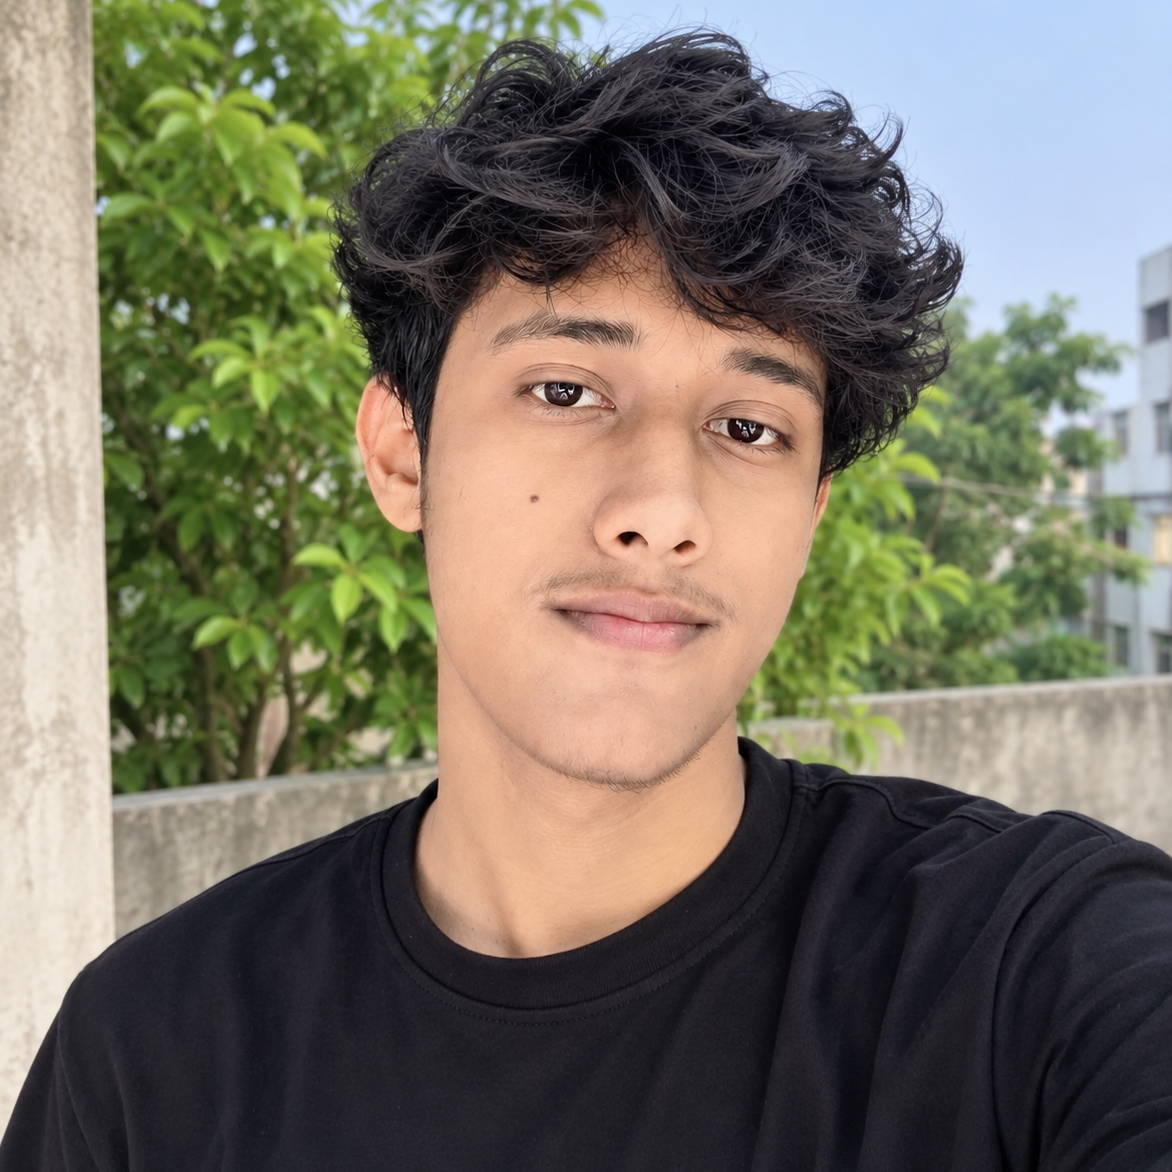
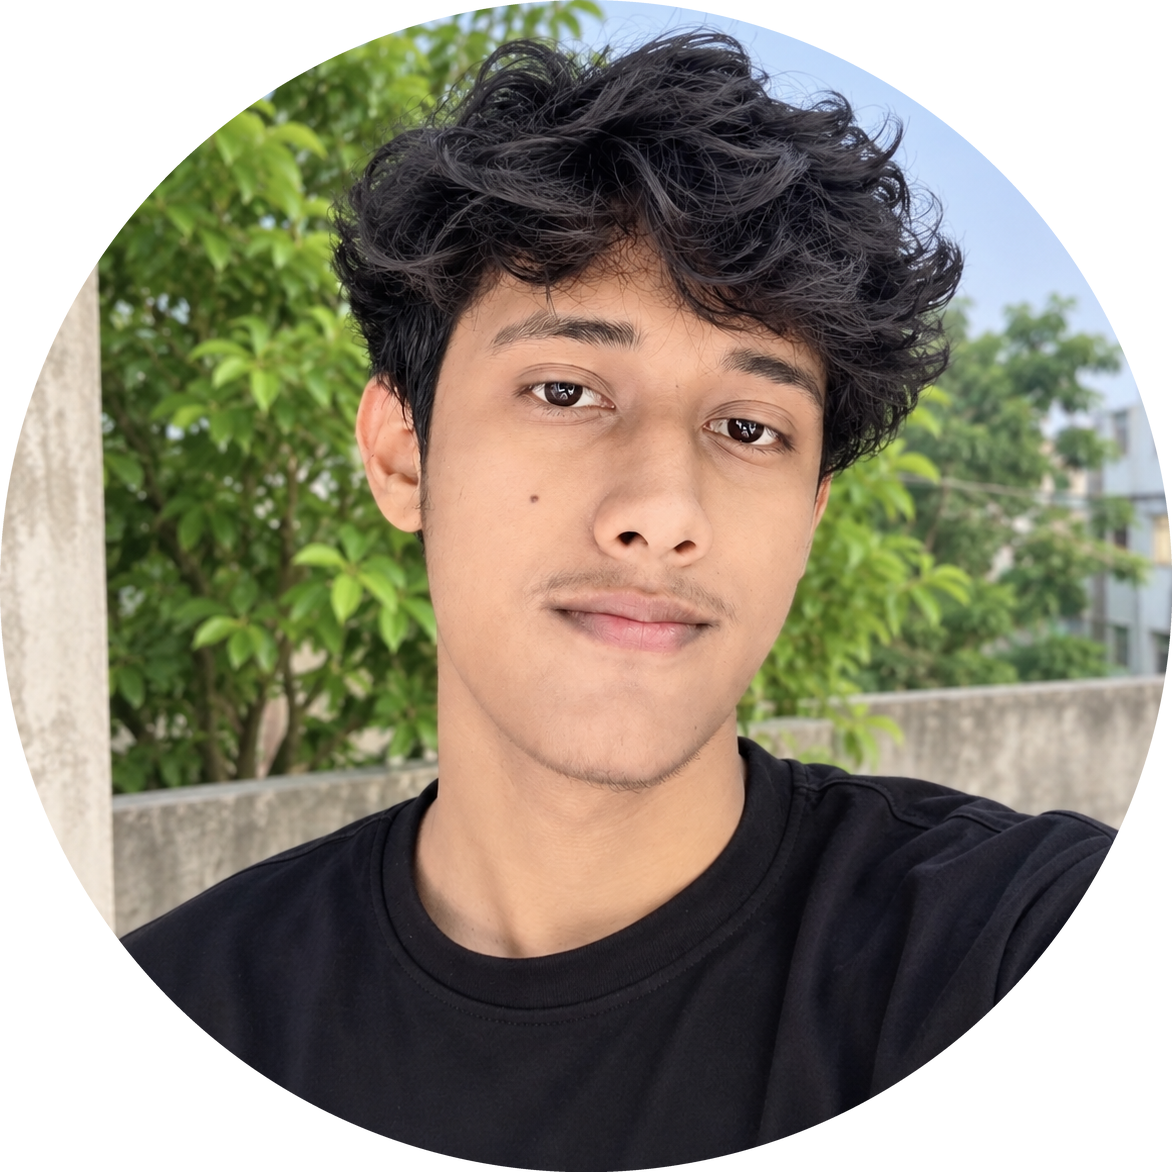
Apply circular and rounded-corner alpha masks to profile assets

diff --git a/README.md b/README.md
@@ -27,7 +27,7 @@
 <table>
   <tr>
     <td width="130" align="center" valign="middle">
-      <img src="./assets/masudur-rahman-sifat-2.jpg" alt="Masudur Rahman Sifat - Software Developer from Bangladesh" width="110" height="110" style="border-radius: 12px;" />
+      <img src="./assets/masudur-rahman-sifat-2.png" alt="Masudur Rahman Sifat - Software Developer from Bangladesh" width="110" height="110" />
     </td>
     <td>
       I'm a <b>Python developer</b> from Bangladesh 🇧🇩, operating under the brand <b>Mr-SxR</b> which stands for <b>Speciality & Reliability</b>. My core focus is building reliable automation tools, desktop software, and reverse engineering (Android APKs, Windows apps & network protocols). I also explore AI manipulation, jailbreak research, and full-stack web development.
